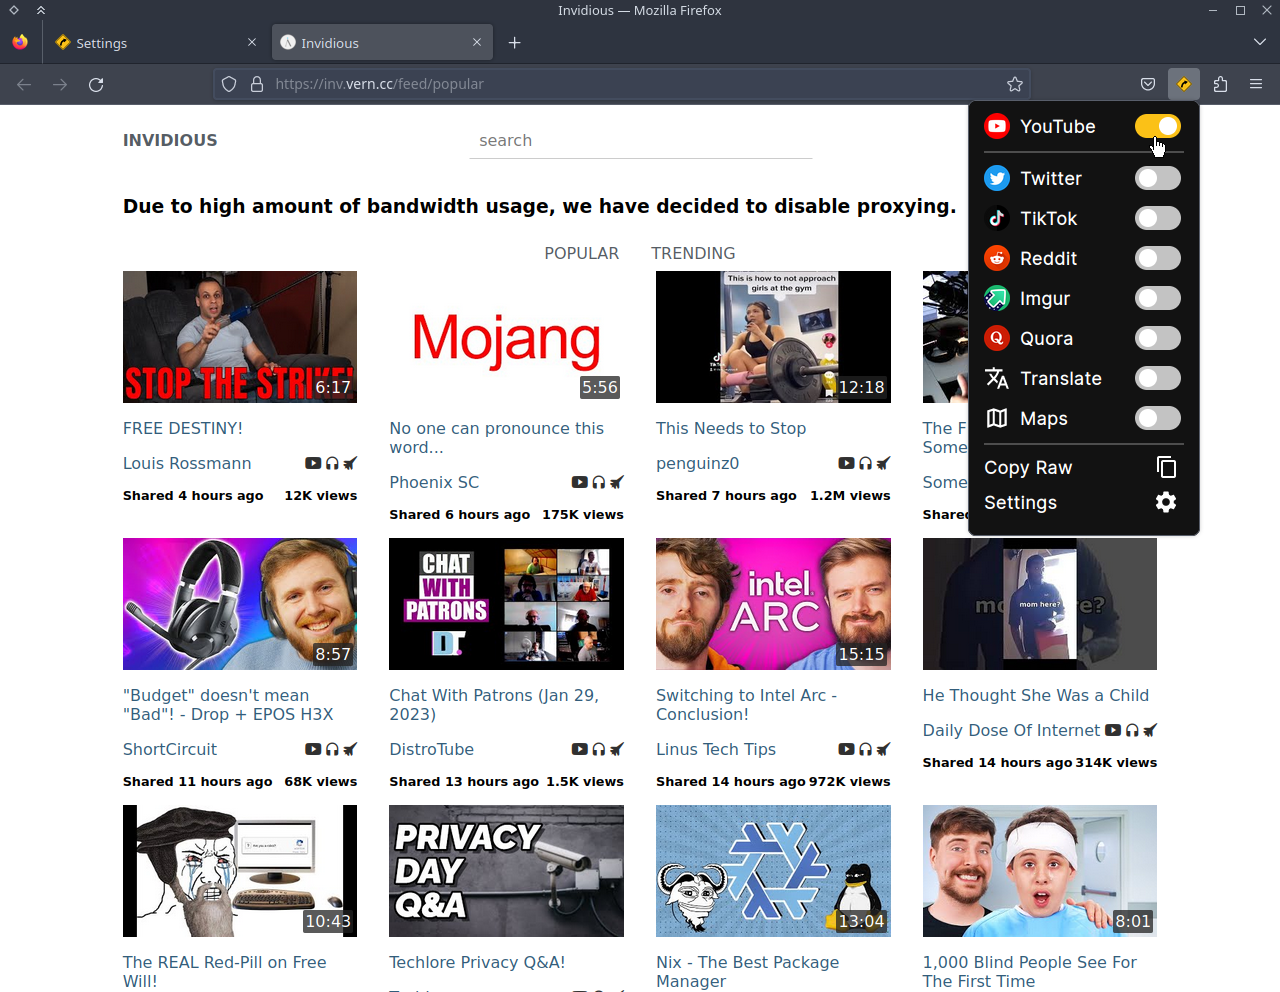
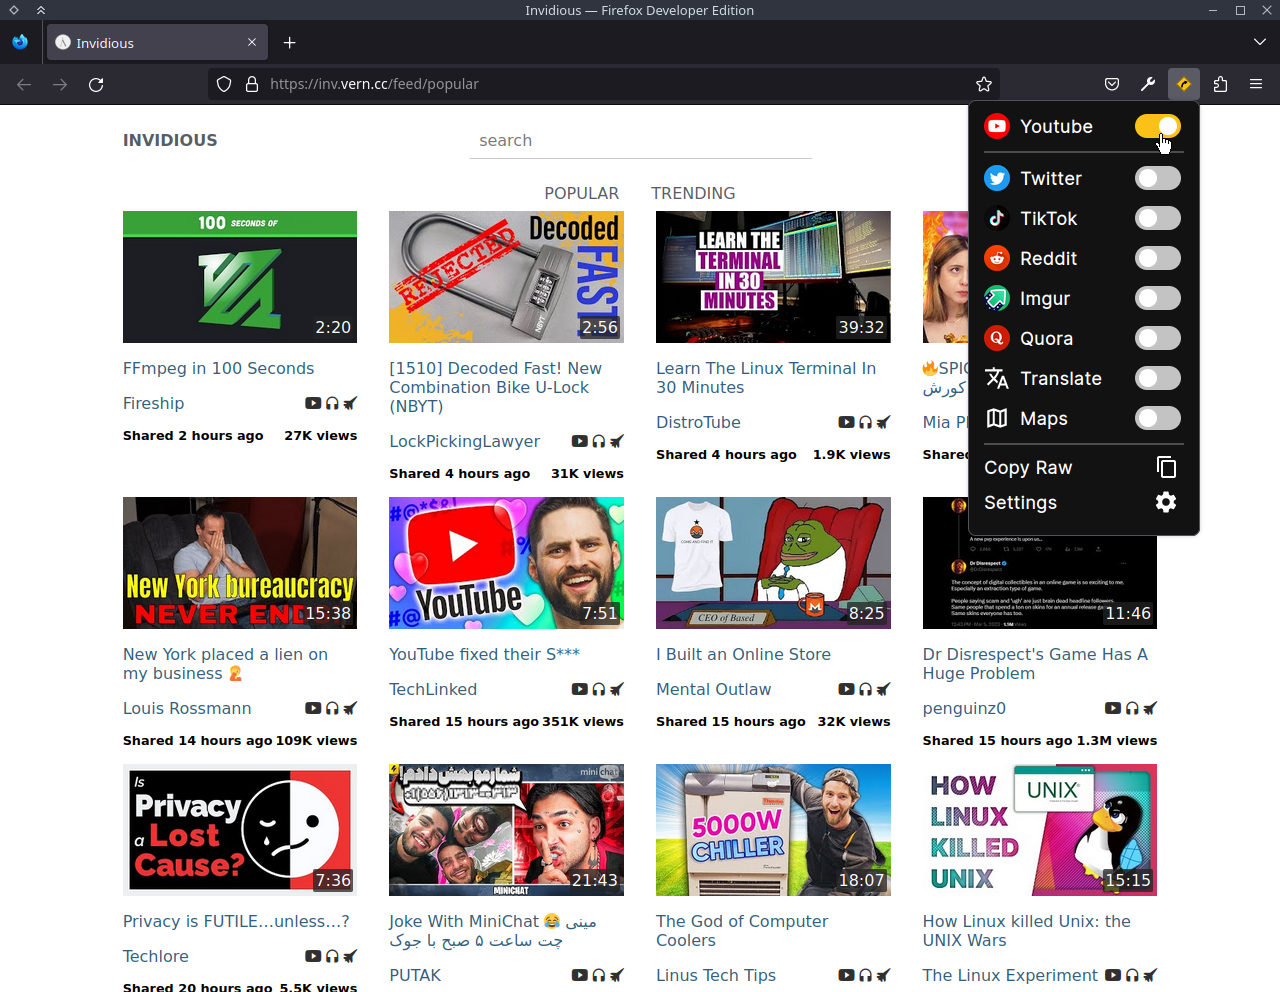
Added context menu buttons to the popup

diff --git a/src/pages/background/background.js b/src/pages/background/background.js
@@ -92,72 +92,20 @@ browser.commands.onCommand.addListener(async command => {
 	})
 })
 
-browser.contextMenus.create({
-	id: "settingsTab",
-	title: browser.i18n.getMessage("settings"),
-	contexts: ["browser_action"],
-})
+browser.contextMenus.create({ id: "settingsTab", title: browser.i18n.getMessage("settings"), contexts: ["browser_action"] })
+browser.contextMenus.create({ id: "switchInstanceTab", title: browser.i18n.getMessage("switchInstance"), contexts: ["browser_action"] })
+browser.contextMenus.create({ id: "copyReverseTab", title: 'Copy Original', contexts: ["browser_action"] })
+browser.contextMenus.create({ id: "redirectTab", title: 'Redirect', contexts: ["browser_action"] })
+browser.contextMenus.create({ id: "reverseTab", title: 'Redirect To Original', contexts: ["browser_action"] })
 
-browser.contextMenus.create({
-	id: "switchInstanceTab",
-	title: browser.i18n.getMessage("switchInstance"),
-	contexts: ["browser_action"],
-})
-
-browser.contextMenus.create({
-	id: "copyReverseTab",
-	title: 'Copy Original',
-	contexts: ["browser_action"],
-})
-
-browser.contextMenus.create({
-	id: "redirectTab",
-	title: 'Redirect',
-	contexts: ["browser_action"],
-})
-
-browser.contextMenus.create({
-	id: "reverseTab",
-	title: 'Redirect To Original',
-	contexts: ["browser_action"],
-})
-
-browser.contextMenus.create({
-	id: "redirectLink",
-	title: 'Redirect',
-	contexts: ["link"],
-})
-
-browser.contextMenus.create({
-	id: "reverseLink",
-	title: 'Redirect To Original',
-	contexts: ["link"],
-})
-
-browser.contextMenus.create({
-	id: "copyReverseLink",
-	title: 'Copy Original',
-	contexts: ["link"],
-})
+browser.contextMenus.create({ id: "redirectLink", title: 'Redirect', contexts: ["link"] })
+browser.contextMenus.create({ id: "reverseLink", title: 'Redirect To Original', contexts: ["link"] })
+browser.contextMenus.create({ id: "copyReverseLink", title: 'Copy Original', contexts: ["link"] })
 
 if (!isChrome) {
-	browser.contextMenus.create({
-		id: "redirectBookmark",
-		title: 'Redirect',
-		contexts: ["bookmark"],
-	})
-
-	browser.contextMenus.create({
-		id: "reverseBookmark",
-		title: 'Redirect To Original',
-		contexts: ["bookmark"],
-	})
-
-	browser.contextMenus.create({
-		id: "copyReverseBookmark",
-		title: 'Copy Original',
-		contexts: ["bookmark"],
-	})
+	browser.contextMenus.create({ id: "redirectBookmark", title: 'Redirect', contexts: ["bookmark"] })
+	browser.contextMenus.create({ id: "reverseBookmark", title: 'Redirect To Original', contexts: ["bookmark"] })
+	browser.contextMenus.create({ id: "copyReverseBookmark", title: 'Copy Original', contexts: ["bookmark"] })
 }
 
 
@@ -276,3 +224,33 @@ browser.webRequest.onHeadersReceived.addListener(
 	{ urls: ["<all_urls>"] },
 	["blocking", "responseHeaders"]
 )
+
+
+browser.runtime.onMessage.addListener((request, sender, sendResponse) => {
+	if (request == "reverseTab") {
+		browser.tabs.query({ active: true, currentWindow: true }, async tabs => {
+			if (tabs[0].url) {
+				const url = new URL(tabs[0].url)
+				const newUrl = await servicesHelper.reverse(url)
+				if (newUrl) {
+					browser.tabs.update(tabs[0].id, { url: newUrl }, () => {
+						tabIdRedirects[tabs[0].id] = false
+					})
+				}
+			}
+		})
+	}
+	else if (request == "redirectTab") {
+		browser.tabs.query({ active: true, currentWindow: true }, async tabs => {
+			if (tabs[0].url) {
+				const url = new URL(tabs[0].url)
+				const newUrl = servicesHelper.redirect(url, "main_frame", null, true)
+				if (newUrl) {
+					browser.tabs.update(tabs[0].id, { url: newUrl }, () => {
+						tabIdRedirects[tabs[0].id] = true
+					})
+				}
+			}
+		})
+	}
+});

diff --git a/src/pages/popup/popup.js b/src/pages/popup/popup.js
@@ -19,16 +19,37 @@ browser.tabs.query({ active: true, currentWindow: true }, async tabs => {
 		})
 		servicesHelper.copyRaw(url, true).then(r => {
 			if (!r) {
-				document.getElementById("copy_raw_div").style.display = "none"
+				document.getElementById("copy_original_div").style.display = "none"
 			}
 			else {
-				const copy_raw = document.getElementById("copy_raw")
-				copy_raw.addEventListener("click", () => servicesHelper.copyRaw(url))
+				document.getElementById("copy_original").addEventListener("click", () => servicesHelper.copyRaw(url))
+			}
+		})
+		servicesHelper.reverse(url).then(r => {
+			if (!r) {
+				document.getElementById("redirect_to_original_div").style.display = "none"
+			} else {
+				document.getElementById("redirect_to_original").addEventListener("click", () => {
+					browser.runtime.sendMessage("reverseTab");
+					calcButtons()
+				})
+			}
+		})
+		servicesHelper.redirectAsync(url, "main_frame", null, true).then(r => {
+			if (!r) {
+				document.getElementById("redirect_div").style.display = "none"
+			} else {
+				document.getElementById("redirect").addEventListener("click", () => {
+					browser.runtime.sendMessage("redirectTab");
+					calcButtons()
+				})
 			}
 		})
 	} else {
 		document.getElementById("change_instance_div").style.display = "none"
-		document.getElementById("copy_raw_div").style.display = "none"
+		document.getElementById("copy_original_div").style.display = "none"
+		document.getElementById("redirect_div").style.display = "none"
+		document.getElementById("redirect_to_original_div").style.display = "none"
 	}
 })
 

diff --git a/src/assets/javascripts/services.js b/src/assets/javascripts/services.js
@@ -44,6 +44,11 @@ function regexArray(service, url, config, frontend) {
 	return false
 }
 
+async function redirectAsync(url, type, initiator, forceRedirection) {
+	await init()
+	return redirect(url, type, initiator, forceRedirection)
+}
+
 function redirect(url, type, initiator, forceRedirection) {
 	if (type != "main_frame" && type != "sub_frame" && type != "image") return
 	let randomInstance
@@ -846,6 +851,7 @@ async function copyRaw(url, test) {
 
 export default {
 	redirect,
+	redirectAsync,
 	computeService,
 	reverse,
 	initDefaults,

diff --git a/src/pages/popup/style.css b/src/pages/popup/style.css
@@ -28,6 +28,11 @@ input {
 	width: 46px;
 }
 
+.button h4 {
+	font-size: 16px;
+	max-width: 160px;
+}
+
 #instance {
 	max-width: 110px;
 	max-height: 22px;
